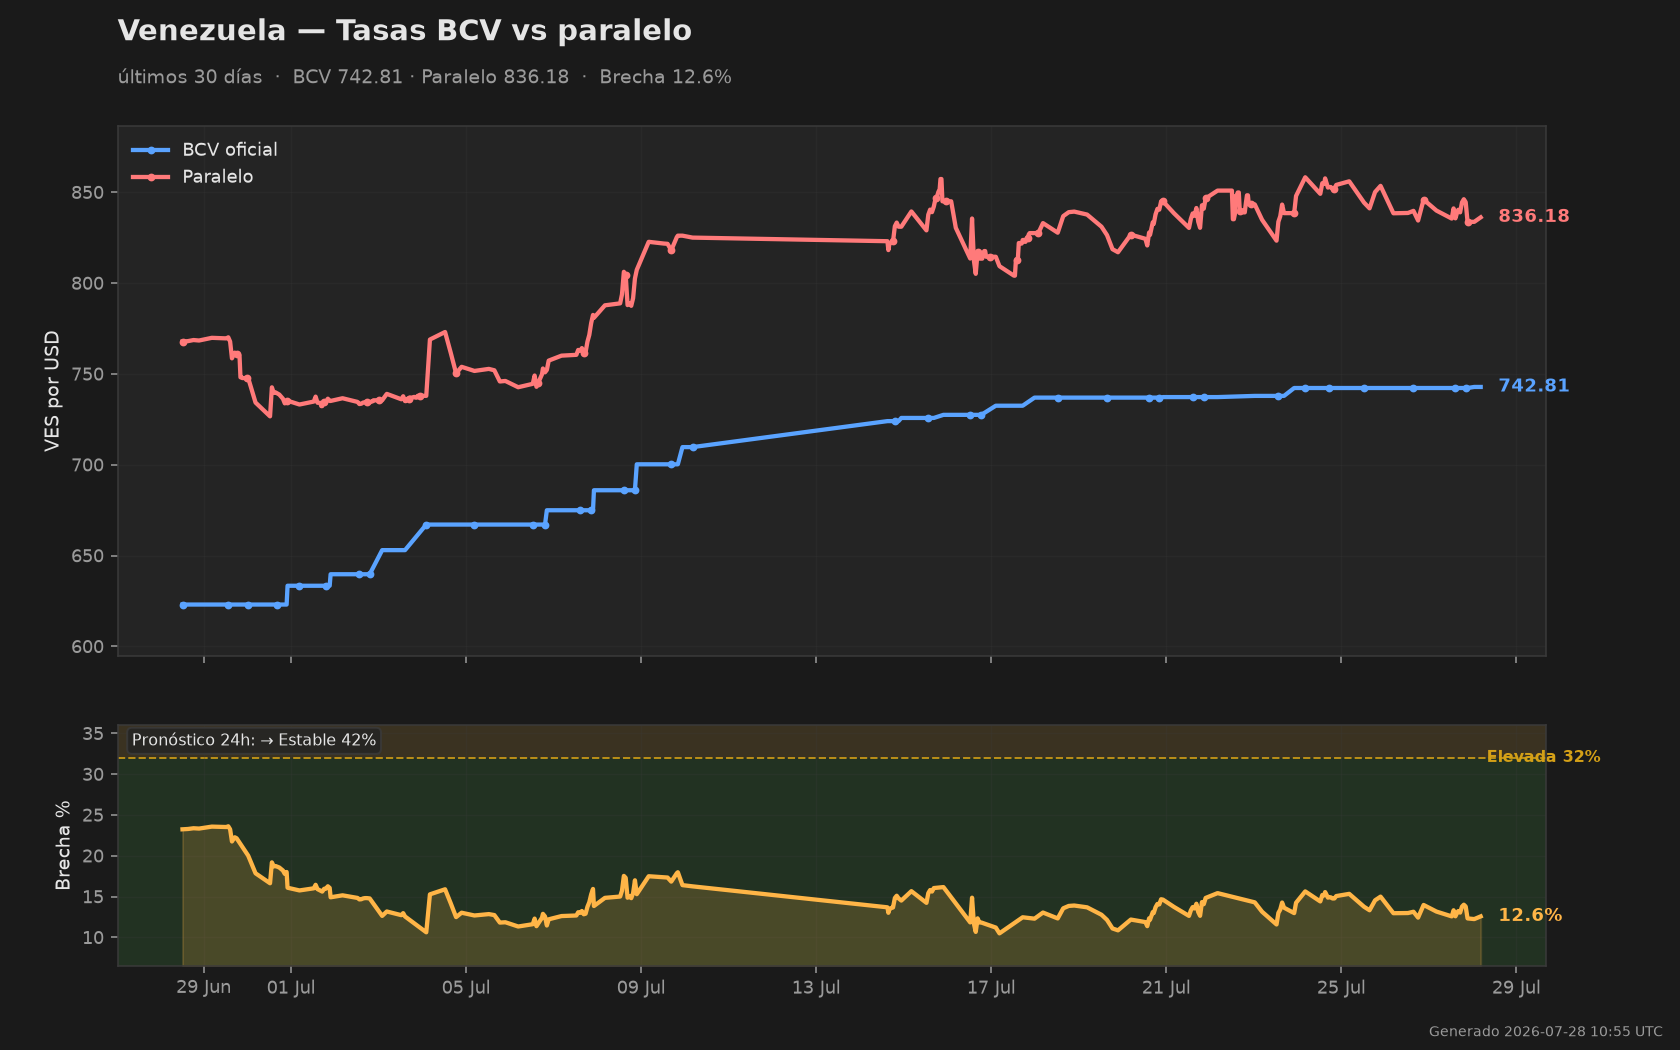
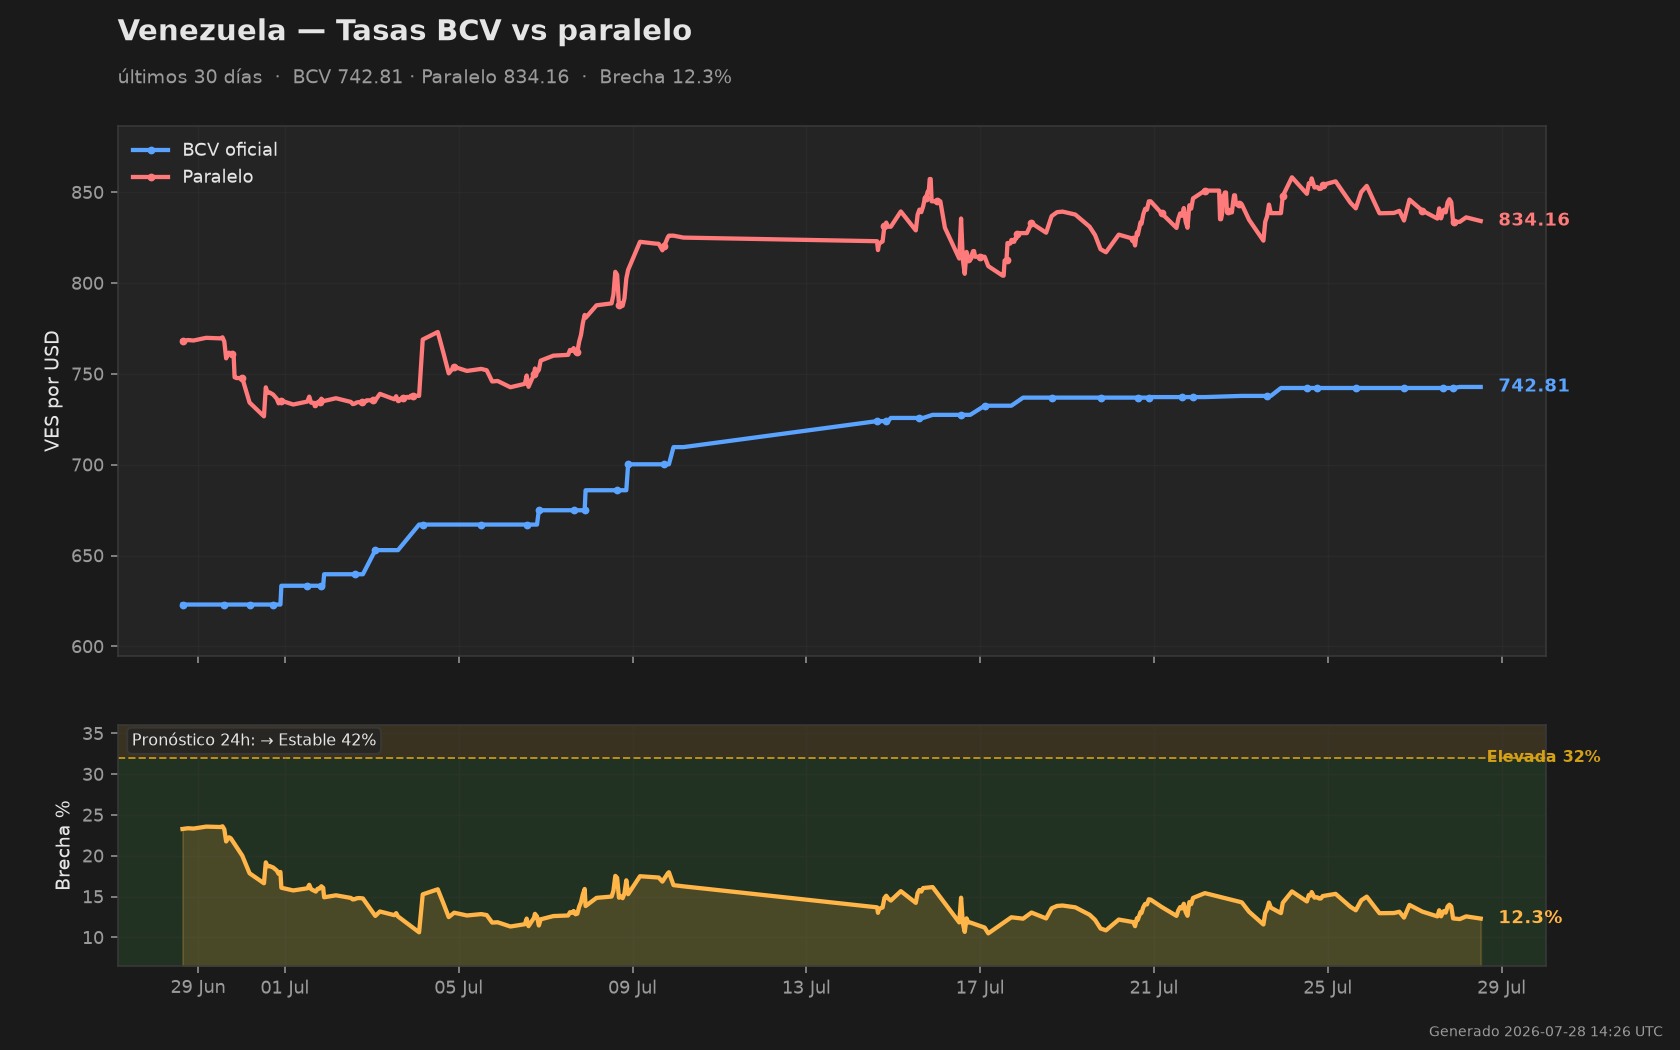
Dashboard update 2026-07-28 14:26 UTC

diff --git a/README.md b/README.md
@@ -11,11 +11,11 @@
 | Metric · Métrica | Value · Valor |
 |---|---|
 | BCV Oficial | **742.81** VES/USD |
-| Paralelo | **836.18** VES/USD |
-| Brecha · Spread | **12.6%** |
-| Binance P2P USDT/VES | **841.75** VES/USDT (+0.7% vs paralelo) |
+| Paralelo | **834.16** VES/USD |
+| Brecha · Spread | **12.3%** |
+| Binance P2P USDT/VES | **843.40** VES/USDT (+1.1% vs paralelo) |
 | **Pronóstico 24h · 24h Forecast** | **↑ Ensanchando · Widening (41%)** |
-| Actualizado · Updated | 2026-07-28 04:23 UTC |
+| Actualizado · Updated | 2026-07-28 12:25 UTC |
 
 ![Venezuela BCV vs parallel rate — last 30 days](data/chart.png)
 
@@ -29,8 +29,8 @@ Cada día compiten dos modelos sobre el mismo pronóstico: una **línea base** (
 
 | Model · Modelo | Brier ↓ | vs Baseline | Forecasts Scored · Evaluados |
 |---|---|---|---|
-| naive (baseline) | 0.704 ± 0.059 | — | 69 |
-| stat | 0.686 ± 0.050 | −0.018 ≈ | 69 |
+| naive (baseline) | 0.705 ± 0.058 | — | 70 |
+| stat | 0.688 ± 0.049 | −0.017 ≈ | 70 |
 
 *Accumulating live data since May 2026 · Acumulando datos en vivo desde mayo 2026*
 
